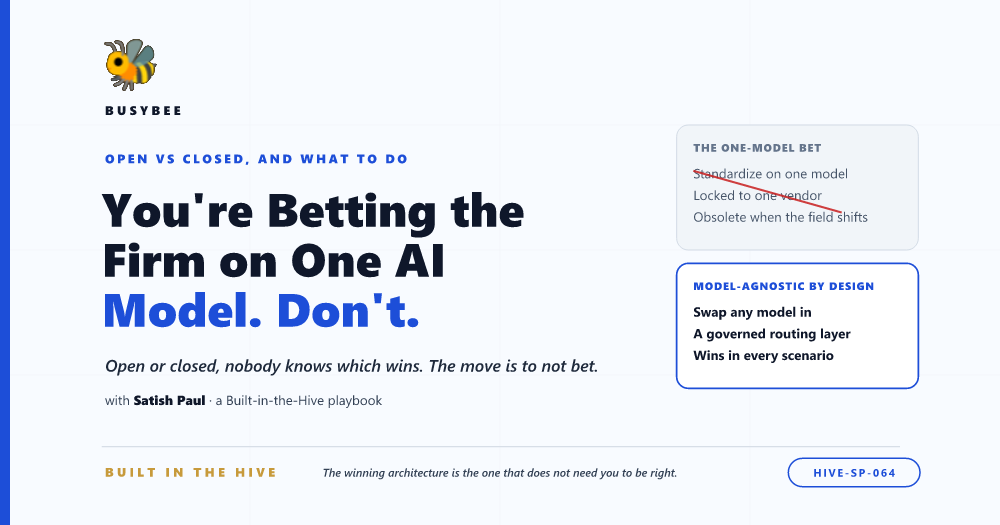
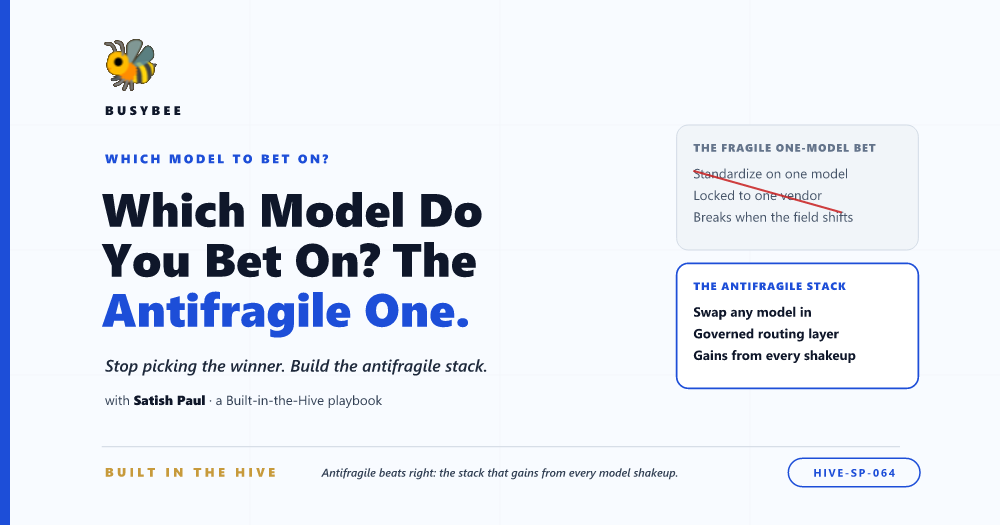
Refresh HIVE-SP-064: antifragile title, richer service-line examples, clean URLs

diff --git a/linkedin-article-assets/HIVE-SP-064-model-agnostic-ai-stack/README.md b/linkedin-article-assets/HIVE-SP-064-model-agnostic-ai-stack/README.md
@@ -1,12 +1,12 @@
-# You're Betting the Firm on One AI Model. Don't.
+# Which AI Model Should You Bet On? The Antifragile One.
 
 A Built-in-the-Hive playbook: the open-weight versus closed-weight model debate has three possible endings, closed wins, open wins, or a hybrid, and nobody can predict which. This shows professional-services teams how to stop betting on one model and build a governed, model-agnostic stack, gateway, routing, grounding, observability, and security, that adopts whatever wins and runs across cloud, on-prem, and edge. Built on Copilot Studio, Azure AI Foundry, Azure AI Search, Dataverse, and Purview. Generalized from an industry research note; an AI-strategy playbook, not investment advice.
 
-Companion article: "You're Betting the Firm on One AI Model. Don't." (Built in the Hive, HIVE-SP-064).
+Companion article: "Which AI Model Should You Bet On? The Antifragile One." (Built in the Hive, HIVE-SP-064).
 
 ## Business value
 
-The AI world is in the middle of a genuine argument with no settled answer: will the future belong to closed-weight models, the proprietary frontier systems you rent by the token, or to open-weight models, the ones you can download, customize, and run wherever you like? There are credible cases for three different endings, closed wins, open wins, or a durable hybrid of both, and nobody can honestly tell you which. That uncertainty terrifies firms that have to make architecture decisions now. The way out is to stop trying to pick the winner. Build a governed, model-agnostic stack, a gateway and router in front of many models, with grounding, observability, and security, so the model underneath becomes a swappable config instead of a bet. Then you win in every state of the world.
+The AI world is in the middle of a genuine argument with no settled answer: will the future belong to closed-weight models, the proprietary frontier systems you rent by the token, or to open-weight models, the ones you can download, customize, and run wherever you like? There are credible cases for three different endings, closed wins, open wins, or a durable hybrid of both, and nobody can honestly tell you which. So stop asking which model to bet on and bet on a property instead: antifragility. A fragile firm standardizes on one model and breaks when the field shifts. An antifragile firm builds a governed, model-agnostic stack, a gateway and router in front of many models, with grounding, observability, and security, so every new model, price crash, or open-weight release becomes a free upgrade it routes to rather than a threat it absorbs. Volatility stops being a risk and becomes a supply of improvements.
 
 ## What it does
 

diff --git a/linkedin-article-assets/HIVE-SP-064-model-agnostic-ai-stack/power-platform/solution.md b/linkedin-article-assets/HIVE-SP-064-model-agnostic-ai-stack/power-platform/solution.md
@@ -3,7 +3,7 @@
 Paste this into GitHub Copilot as the implementation brief. Build a Microsoft Power Platform, Azure AI, and Dataverse reference app that puts a gateway and router in front of many models, open and closed, with grounding, observability, and security, so model choice is a swappable config.
 
 ## Get the assets
-Downloadable recipe (prompt, Cowork skill, and this solution spec) on GitHub: **github.com/SatishPaul/BusyBeeRepo** under `linkedin article assets/HIVE-SP-064-model-agnostic-ai-stack/`. Licensed Apache-2.0.
+Downloadable recipe (prompt, Cowork skill, and this solution spec) on GitHub: **github.com/SatishPaul/BusyBeeRepo** under `linkedin-article-assets/HIVE-SP-064-model-agnostic-ai-stack/`. Licensed Apache-2.0.
 
 An AI-strategy playbook, not investment advice.
 
